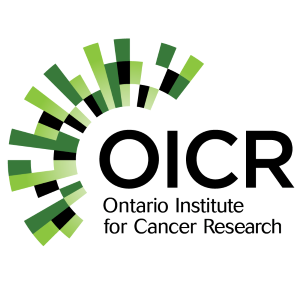
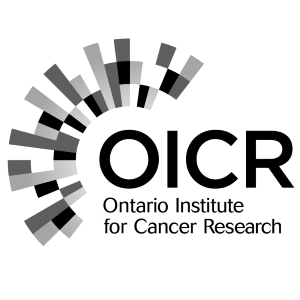
Redesign

Changed region(s): [[0.0, 0.12, 0.69, 0.84]]

diff --git a/css/scrolling-nav.css b/css/scrolling-nav.css
@@ -13,8 +13,10 @@ body {
     width: 100%;
     height: 100%;
     font-family: "Roboto";
-    font-size: 1.7em;
+    font-size: 1.3em;
 }
+
+
 
 footer {
     height: 5%;
@@ -91,7 +93,7 @@ of those sections to manage the look and feel of the site. */
 }
 
 .socialbtns:hover {
-    color: #1b6d85;
+    color: rgba(102, 91, 40, 0.95);
 }
 
 .down-arrow {
@@ -108,7 +110,7 @@ of those sections to manage the look and feel of the site. */
 }
 
 .about-section {
-    background-color: rgba(255,203,102,0.90);
+    background-color: rgba(86, 87, 86, 0.9);
     padding-top: 50px;
     padding-bottom: 50px;
     text-align: center;
@@ -126,9 +128,13 @@ of those sections to manage the look and feel of the site. */
     text-align: left;
 }
 
+.about-section a {
+    color: rgb(255, 222, 162);
+}
+
 .about-section .cat_caption{
    text-align: center;
-    font-size: 70%;
+   font-size: 85%;
 }
 
 .resume-section {
@@ -165,7 +171,7 @@ of those sections to manage the look and feel of the site. */
 }
 
 .project-section {
-    background-color: rgba(255,203,102,0.80);
+    background-color: rgba(86, 87, 86, 0.9);
     padding-top: 50px;
     text-align: center;
     padding-bottom: 70px;
@@ -174,6 +180,10 @@ of those sections to manage the look and feel of the site. */
 .project-section h1 {
     color: #fff;
     font-size: 350%;
+}
+
+.project-section a {
+    color: #000000;
 }
 
 @media screen and (min-width: 800px) {
@@ -189,20 +199,22 @@ of those sections to manage the look and feel of the site. */
 
 .navbar-custom {
     font-family: Arial,sans-serif;
-    background: rgba(255,203,102,0.83);
+    background-color: rgba(86, 87, 86, 0.9);
     border-color: #fff;
 }
 
 .navbar-custom .navbar-brand, .navbar-default .navbar-brand {
-    font-size: 280%;
+    font-size: 140%;
     color: #fff;
 }
 
-
-
 .navbar-default .navbar-nav>li>a {
-    font-size: 135%;
+    font-size: 120%;
     color: #fff;
+}
+
+.navbar-default .navbar-nav>li>a:hover {
+    color: #eddc92;
 }
 
 span.glyphicon-chevron-down {
@@ -216,8 +228,15 @@ span.glyphicon-chevron-down {
 }
 
 .navbar-default .navbar-nav>.active>a, .navbar-default .navbar-nav>.active>a:hover, .navbar-default .navbar-nav> .active>a:focus{
-    color: #555;
-    background: #ffedcb;
+    color: #ffffff;
+    background: rgba(237, 220, 146, 0.35);
+    text-underline: #9d9d9d;
+    border-width: 2px;
+}
+
+.navbar-default .navbar-nav>li>a:focus, .navbar-default .navbar-nav>li>a:hover {
+     color: #fff;
+    background-color: transparent;
 }
 
 .overlay {
@@ -225,7 +244,7 @@ span.glyphicon-chevron-down {
     bottom: 100%;
     left: 0;
     right: 0;
-    background: rgba(255, 174, 46, 0.95);
+    background-color: rgba(86, 87, 86, 0.9);
     overflow: hidden;
     width: 100%;
     height:0;
@@ -263,7 +282,7 @@ span.glyphicon-chevron-down {
     -webkit-flex-direction: column;
     -ms-flex-direction: column;
     flex-direction: column;
-    background-color: #fff;
+    background-color: rgba(255, 222, 162, 0.95);
     border: 1px solid rgba(0, 0, 0, 0.125);
     border-radius: 0.25rem;
 }
@@ -414,7 +433,7 @@ span.glyphicon-chevron-down {
 
 .card-outline-warning {
     background-color: transparent;
-    border-color: #f0ad4e;
+    border-color: rgba(86, 87, 86, 0.9);
 }
 
 .card-outline-danger {

diff --git a/index.html b/index.html
@@ -39,7 +39,6 @@
                     <span class="icon-bar"></span>
                     <span class="icon-bar"></span>
                 </button>
-                <a class="navbar-brand page-scroll" href="#page-top">HOME</a>
             </div>
 
             <!-- Collect the nav links, forms, and other content for toggling -->
